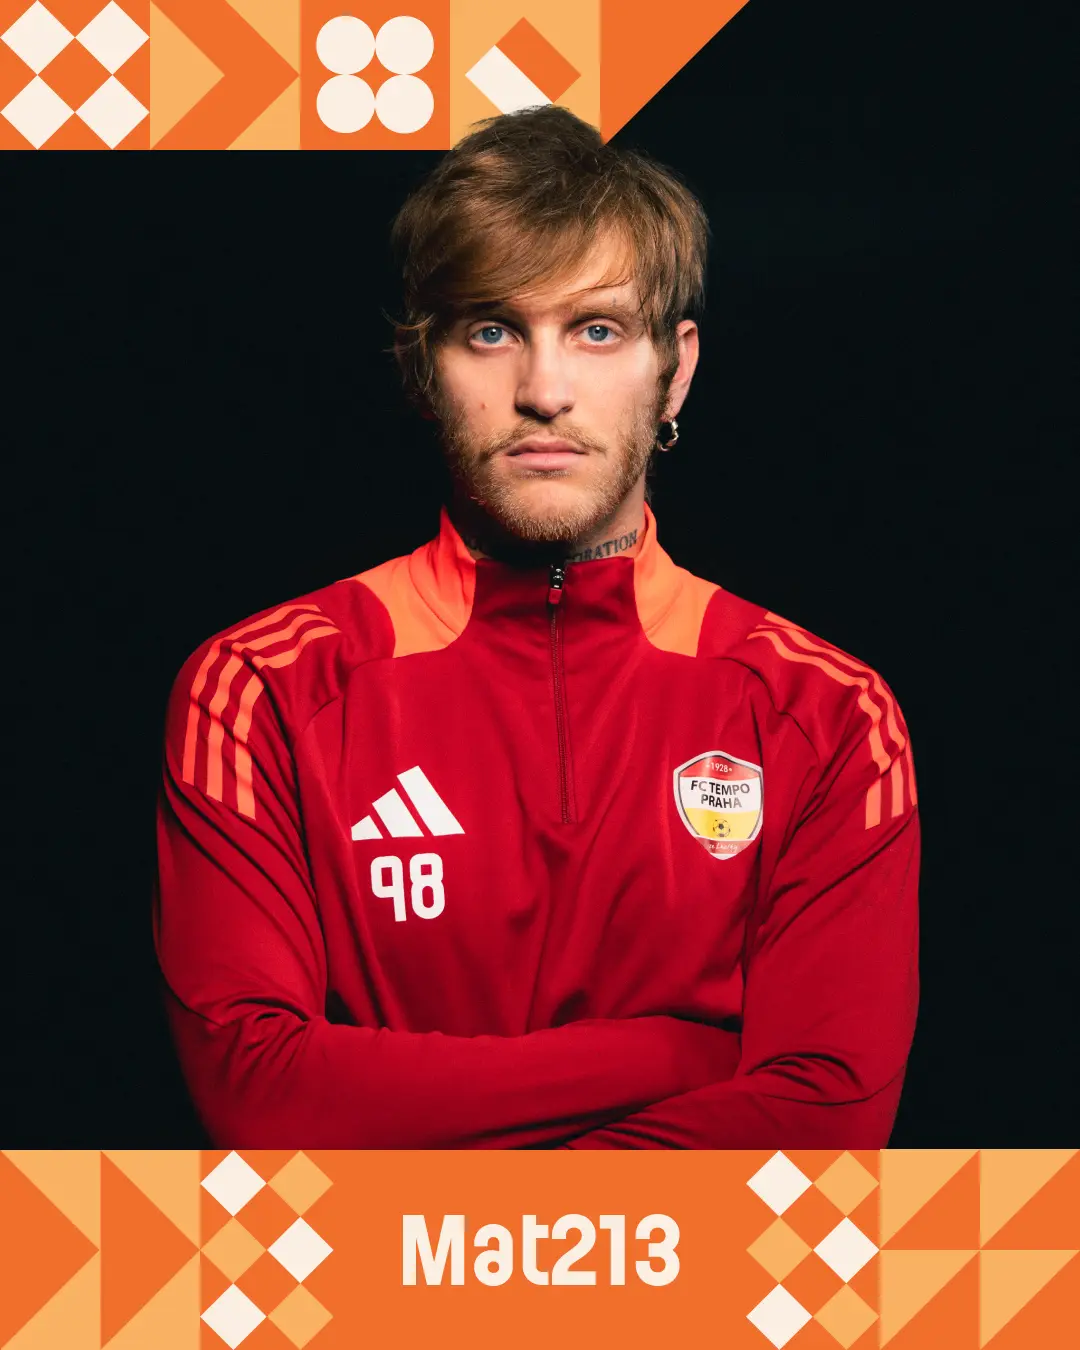
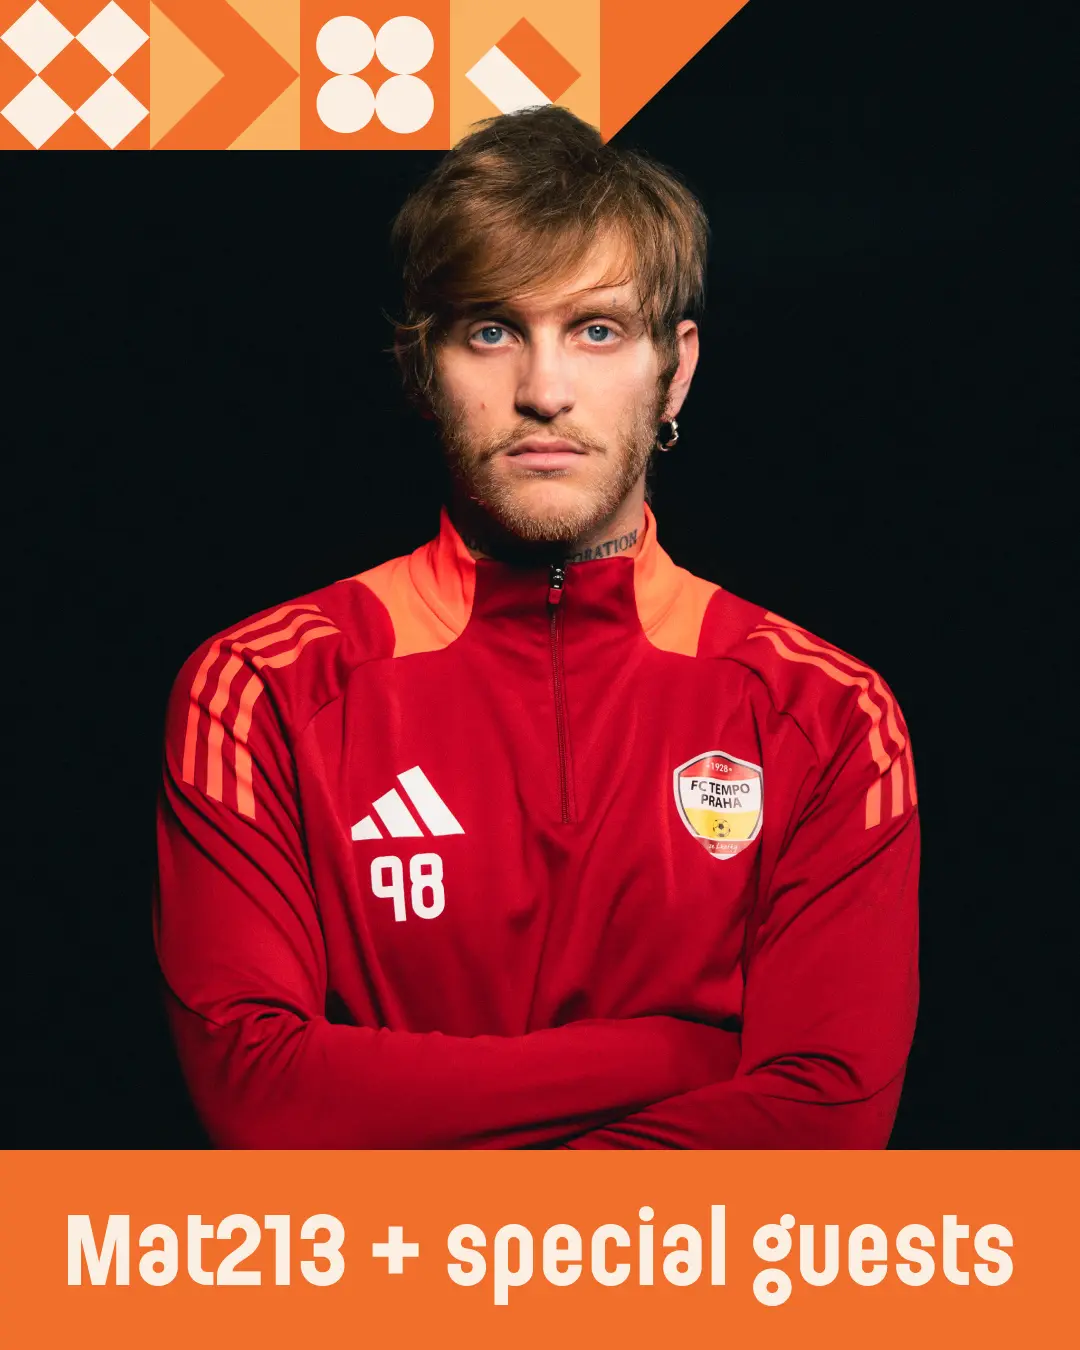
Lineup complete

Changed region(s): [[0.0, 0.84, 1.0, 1.0]]

diff --git a/src/data/bands.ts b/src/data/bands.ts
@@ -5,32 +5,32 @@ import sympl from '../assets/img/bands/sympl.webp?url';
 import focus from '../assets/img/bands/focusrock.webp?url';
 import analog_killer from '../assets/img/bands/analog_killer.webp?url';
 import beira from '../assets/img/bands/beira.webp?url';
-//import kojo from '../assets/img/bands/kojo.webp?url';
-//import novahospodsky_bordel from '../assets/img/bands/hospodsky_bordel.webp?url';
+import kojo from '../assets/img/bands/kojo.webp?url';
+import hospodsky_bordel from '../assets/img/bands/hospodsky_bordel.webp?url';
 import qocna from '../assets/img/bands/qocna.webp?url';
-//import michal_hruza from '../assets/img/bands/michal_hruza.webp?url';
+import michal_hruza from '../assets/img/bands/michal_hruza.webp?url';
 import dukla from '../assets/img/bands/dukla.webp?url';
 export const bands: (BandType & { visibleFrom: Date })[] = [
-  /* {
+  {
     img: michal_hruza,
     title: 'Michal Hrůza',
     visibleFrom: new Date('2026-04-02T18:00:00'),
-  }, */
-  {
-    img: mat213,
-    title: 'Mat213',
-    visibleFrom: new Date('2026-03-30T18:00:00'),
   },
-  /* {
+  {
     img: kojo,
     title: 'Kojo',
     visibleFrom: new Date('2026-03-30T18:00:00'),
-  }, */
-  /* {
+  },
+  {
+    img: mat213,
+    title: 'Mat213',
+    visibleFrom: new Date('2026-04-07T18:00:00'),
+  },
+  {
     img: hospodsky_bordel,
     title: 'Hospodský Bordel',
     visibleFrom: new Date('2026-03-24T18:00:00'),
-  }, */
+  },
   {
     img: dukla,
     title: 'Dukla',

diff --git a/src/components/lineup/BandListSection.tsx b/src/components/lineup/BandListSection.tsx
@@ -62,7 +62,7 @@ export const BandListSection = () => {
       {CAN_SHOW_BANDS ? (
         <div className="relative z-20">
           {/* Headliners */}
-          <div className="space-y-4 md:space-y-8 md:px-4">
+          <div className="md:px-4">
             {bands
               .slice(0, 2)
               .filter((band) => now >= band.visibleFrom)
